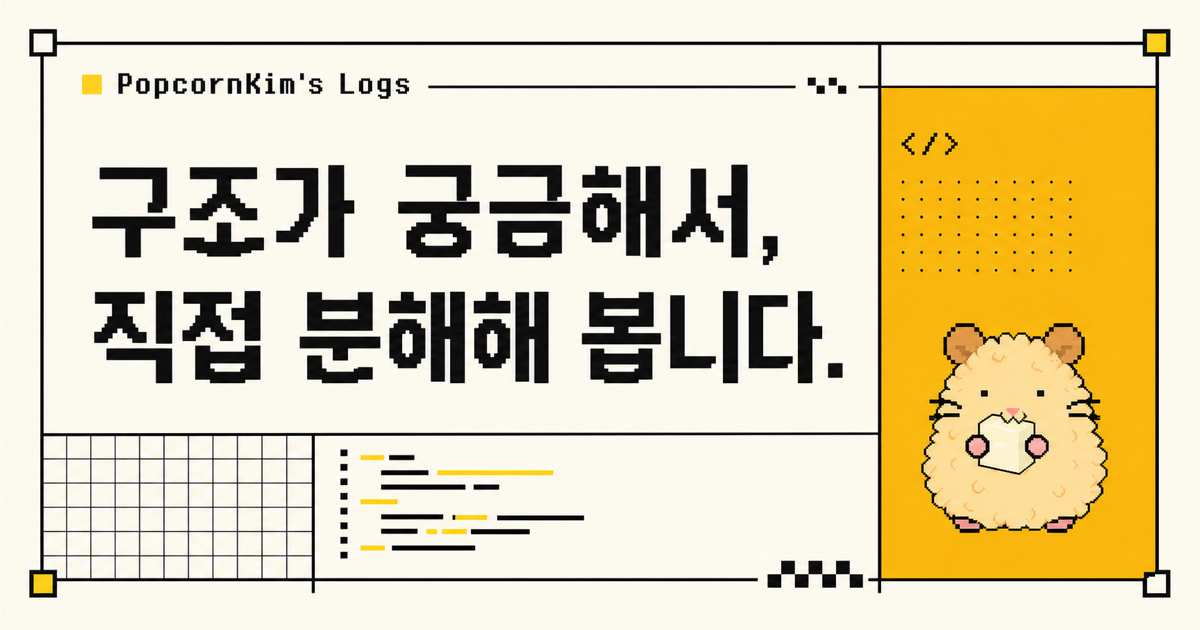
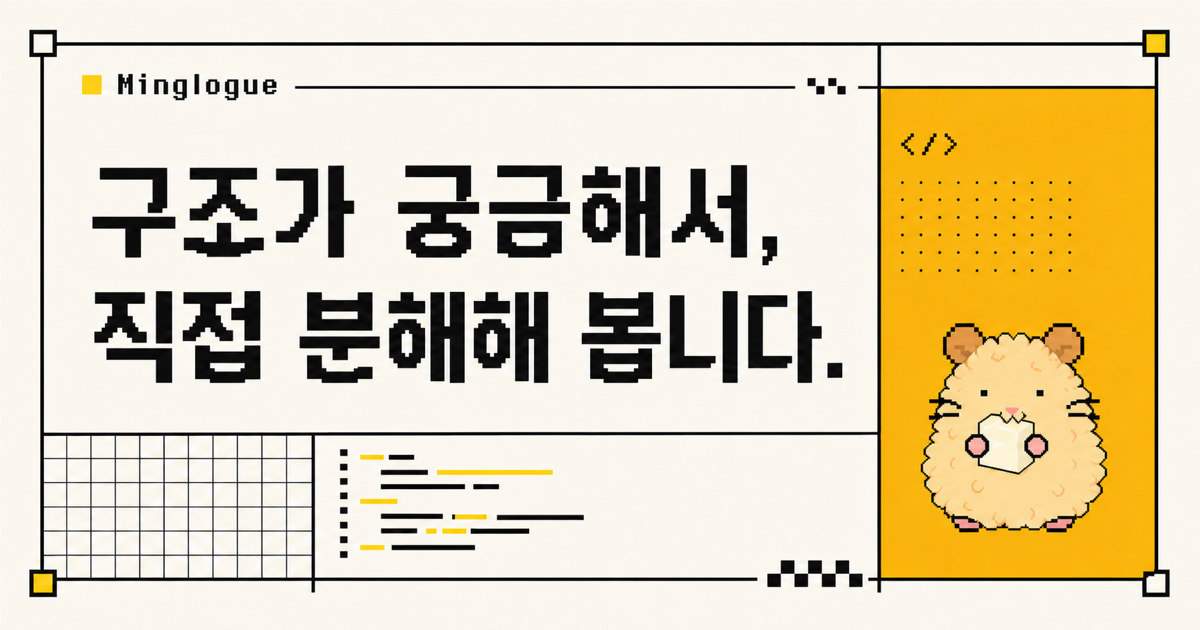
Rebrand site as Minglogue

diff --git a/app/layout.tsx b/app/layout.tsx
@@ -17,17 +17,17 @@ const jua = Jua({
 export const metadata: Metadata = {
   metadataBase: new URL("https://popcorn-kim-log.popcornkim58.workers.dev"),
   title: {
-    default: "PopcornKim's Logs",
-    template: "%s · PopcornKim's Logs",
+    default: "Minglogue",
+    template: "%s · Minglogue",
   },
   description:
-    "디자이너 팝콘의 코딩 공부, 일상, 포트폴리오 그리고 반려햄스터 푸딩이의 기록.",
-  authors: [{ name: "팝콘" }],
-  creator: "팝콘",
+    "디자이너 밍띠의 코딩 공부, 일상, 밍벤토리 그리고 반려햄스터 푸딩이의 기록.",
+  authors: [{ name: "Mingddi (밍띠)" }],
+  creator: "Mingddi (밍띠)",
   verification: {
     google: "i4V_1VFJOeMBtjfWj9t76I2cv_N8cCRWYF-iYpL0RtI",
   },
-  keywords: ["개발 블로그", "코딩 기록", "디자인", "Next.js", "팝콘"],
+  keywords: ["Minglogue", "밍글로그", "Mingddi", "밍띠", "Mingventory", "밍벤토리", "개발 블로그", "코딩 기록", "디자인", "Next.js"],
   icons: {
     icon: "/favicon.svg",
     shortcut: "/favicon.svg",
@@ -35,14 +35,14 @@ export const metadata: Metadata = {
   openGraph: {
     type: "website",
     locale: "ko_KR",
-    siteName: "PopcornKim's Logs",
-    title: "PopcornKim's Logs",
+    siteName: "Minglogue",
+    title: "Minglogue",
     description: "구조가 궁금해서, 직접 분해해 봅니다.",
-    images: [{ url: "/og.png", width: 1200, height: 630, alt: "PopcornKim's Logs" }],
+    images: [{ url: "/og.png", width: 1200, height: 630, alt: "Minglogue" }],
   },
   twitter: {
     card: "summary_large_image",
-    title: "PopcornKim's Logs",
+    title: "Minglogue",
     description: "구조가 궁금해서, 직접 분해해 봅니다.",
     images: ["/og.png"],
   },

diff --git a/components/site-chrome.tsx b/components/site-chrome.tsx
@@ -7,16 +7,16 @@ export function Arrow() {
 export function SiteHeader() {
   return (
     <header className="site-header page-shell">
-      <Link className="brand" href="/" aria-label="PopcornKim's Logs 홈">
+      <Link className="brand" href="/" aria-label="Minglogue 홈">
         <span className="brand-dot" aria-hidden="true" />
-        PopcornKim&apos;s Logs
+        Minglogue
       </Link>
       <nav className="main-nav" aria-label="주요 메뉴">
         <Link href="/coding">Coding Logs</Link>
         <Link href="/daily">Daily</Link>
         <Link href="/pudding">Pudding</Link>
         <Link href="/#badges">Badges</Link>
-        <Link href="/portfolio">Portfolio</Link>
+        <Link href="/portfolio">Mingventory</Link>
       </nav>
     </header>
   );
@@ -26,8 +26,8 @@ export function SiteFooter() {
   return (
     <footer className="site-footer page-shell">
       <div>
-        <strong>PopcornKim&apos;s Logs</strong>
-        <p>Designed, coded and continuously learned by 팝콘.</p>
+        <strong>Minglogue</strong>
+        <p>Designed, coded and continuously learned by Mingddi.</p>
       </div>
       <div className="footer-links">
         <a
@@ -38,7 +38,7 @@ export function SiteFooter() {
           GitHub
         </a>
         <Link href="/studio">Studio</Link>
-        <Link href="/portfolio">Portfolio</Link>
+        <Link href="/portfolio">Mingventory</Link>
         <Link href="/">홈으로 ↑</Link>
       </div>
     </footer>

diff --git a/app/portfolio/page.tsx b/app/portfolio/page.tsx
@@ -4,8 +4,8 @@ import { Arrow, SiteFooter, SiteHeader } from "@/components/site-chrome";
 import { getAllProjects } from "@/lib/portfolio";
 
 export const metadata: Metadata = {
-  title: "Portfolio",
-  description: "팝콘이 직접 기획하고 만들며 배운 프로젝트를 소개합니다.",
+  title: "Mingventory",
+  description: "밍띠가 직접 기획하고 만들며 배운 프로젝트를 소개하는 밍벤토리입니다.",
 };
 
 export default function PortfolioPage() {
@@ -15,7 +15,7 @@ export default function PortfolioPage() {
     <main>
       <SiteHeader />
       <section className="portfolio-hero page-shell">
-        <p className="eyebrow">SELECTED WORK</p>
+        <p className="eyebrow">MINGVENTORY</p>
         <h1 className="pixel-copy">
           배운 것을 <span>결과로</span>
           <br />

diff --git a/app/studio/page.tsx b/app/studio/page.tsx
@@ -5,7 +5,7 @@ import { formatPostDate, getAllPosts } from "@/lib/posts";
 
 export const metadata: Metadata = {
   title: "Studio",
-  description: "PopcornKim's Logs의 Markdown 글 작성 공간.",
+  description: "Minglogue의 Markdown 글 작성 공간.",
   robots: { index: false, follow: false },
 };
 
@@ -17,7 +17,7 @@ export default function StudioPage() {
       <SiteHeader />
       <section className="studio-hero page-shell">
         <div>
-          <p className="eyebrow">POPCORN&apos;S STUDIO</p>
+          <p className="eyebrow">MINGDDI&apos;S STUDIO</p>
           <h1>글을 쓰고,<br /><span>Markdown으로 챙겨가기.</span></h1>
         </div>
         <p>

diff --git a/app/page.tsx b/app/page.tsx
@@ -111,11 +111,11 @@ export default function Home() {
           <CredlyBadge />
         </section>
         <section className="portfolio-section" id="portfolio">
-          <p className="panel-label">SELECTED WORK</p>
+          <p className="panel-label">MINGVENTORY</p>
           <h2 className="pixel-copy">배운 것을 결과로 남깁니다.</h2>
           <p>프로젝트의 과정, 역할, 기여도를 기록합니다.</p>
           <Link href="/portfolio">
-            포트폴리오 보기 <Arrow />
+            밍벤토리 보기 <Arrow />
           </Link>
         </section>
       </section>

diff --git a/app/portfolio/[slug]/page.tsx b/app/portfolio/[slug]/page.tsx
@@ -42,7 +42,7 @@ export default async function PortfolioDetailPage({ params }: PageProps) {
       <SiteHeader />
       <article className="portfolio-detail page-shell">
         <header className="portfolio-detail-header">
-          <Link href="/portfolio">← PORTFOLIO</Link>
+          <Link href="/portfolio">← MINGVENTORY</Link>
           <p className="eyebrow">PROJECT CASE STUDY</p>
           <h1 className="pixel-copy">{project.title}</h1>
           <p className="portfolio-detail-excerpt">{project.excerpt}</p>

diff --git a/app/posts/[slug]/page.tsx b/app/posts/[slug]/page.tsx
@@ -49,7 +49,7 @@ export default async function PostPage({ params }: PageProps) {
           <div className="post-page-meta">
             <time dateTime={post.date}>{formatPostDate(post.date)}</time>
             <span>{post.readTime} 읽기</span>
-            <span>by 팝콘</span>
+            <span>by MINGDDI</span>
           </div>
         </header>
         <div className="markdown-body">

diff --git a/app/daily/page.tsx b/app/daily/page.tsx
@@ -5,7 +5,7 @@ import { getAllPosts } from "@/lib/posts";
 
 export const metadata: Metadata = {
   title: "일상 기록",
-  description: "공부와 디자인 사이에서 건져 올린 팝콘의 일상 기록.",
+  description: "공부와 디자인 사이에서 건져 올린 밍띠의 일상 기록.",
 };
 
 export default function DailyPage() {

diff --git a/app/coding/page.tsx b/app/coding/page.tsx
@@ -5,7 +5,7 @@ import { getAllPosts } from "@/lib/posts";
 
 export const metadata: Metadata = {
   title: "코딩 기록",
-  description: "팝콘이 직접 배우고 부딪히며 남긴 개발 공부 기록.",
+  description: "밍띠가 직접 배우고 부딪히며 남긴 개발 공부 기록.",
 };
 
 export default function CodingPage() {

diff --git a/README.md b/README.md
@@ -1,6 +1,6 @@
-# PopcornKim's Logs
+# Minglogue
 
-디자인, 마케팅을 거친 팝콘의 코딩 공부, 일상, 포트폴리오 그리고 반려햄스터
+디자인, 마케팅을 거친 밍띠의 코딩 공부, 일상, 밍벤토리 그리고 반려햄스터
 푸딩이의 기록을 담는 개인 블로그입니다.
 
 ## 기술 구성
@@ -27,6 +27,6 @@ pnpm run dev
 
 - 코딩 및 일상 글 목록·상세 페이지
 - GitHub Markdown 기반 글 저장
-- 팝콘 전용 글쓰기 스튜디오
+- 밍띠 전용 글쓰기 스튜디오
 - 자격증 배지, 포트폴리오, 푸딩이 공간
 - GA4 및 검색엔진 최적화
